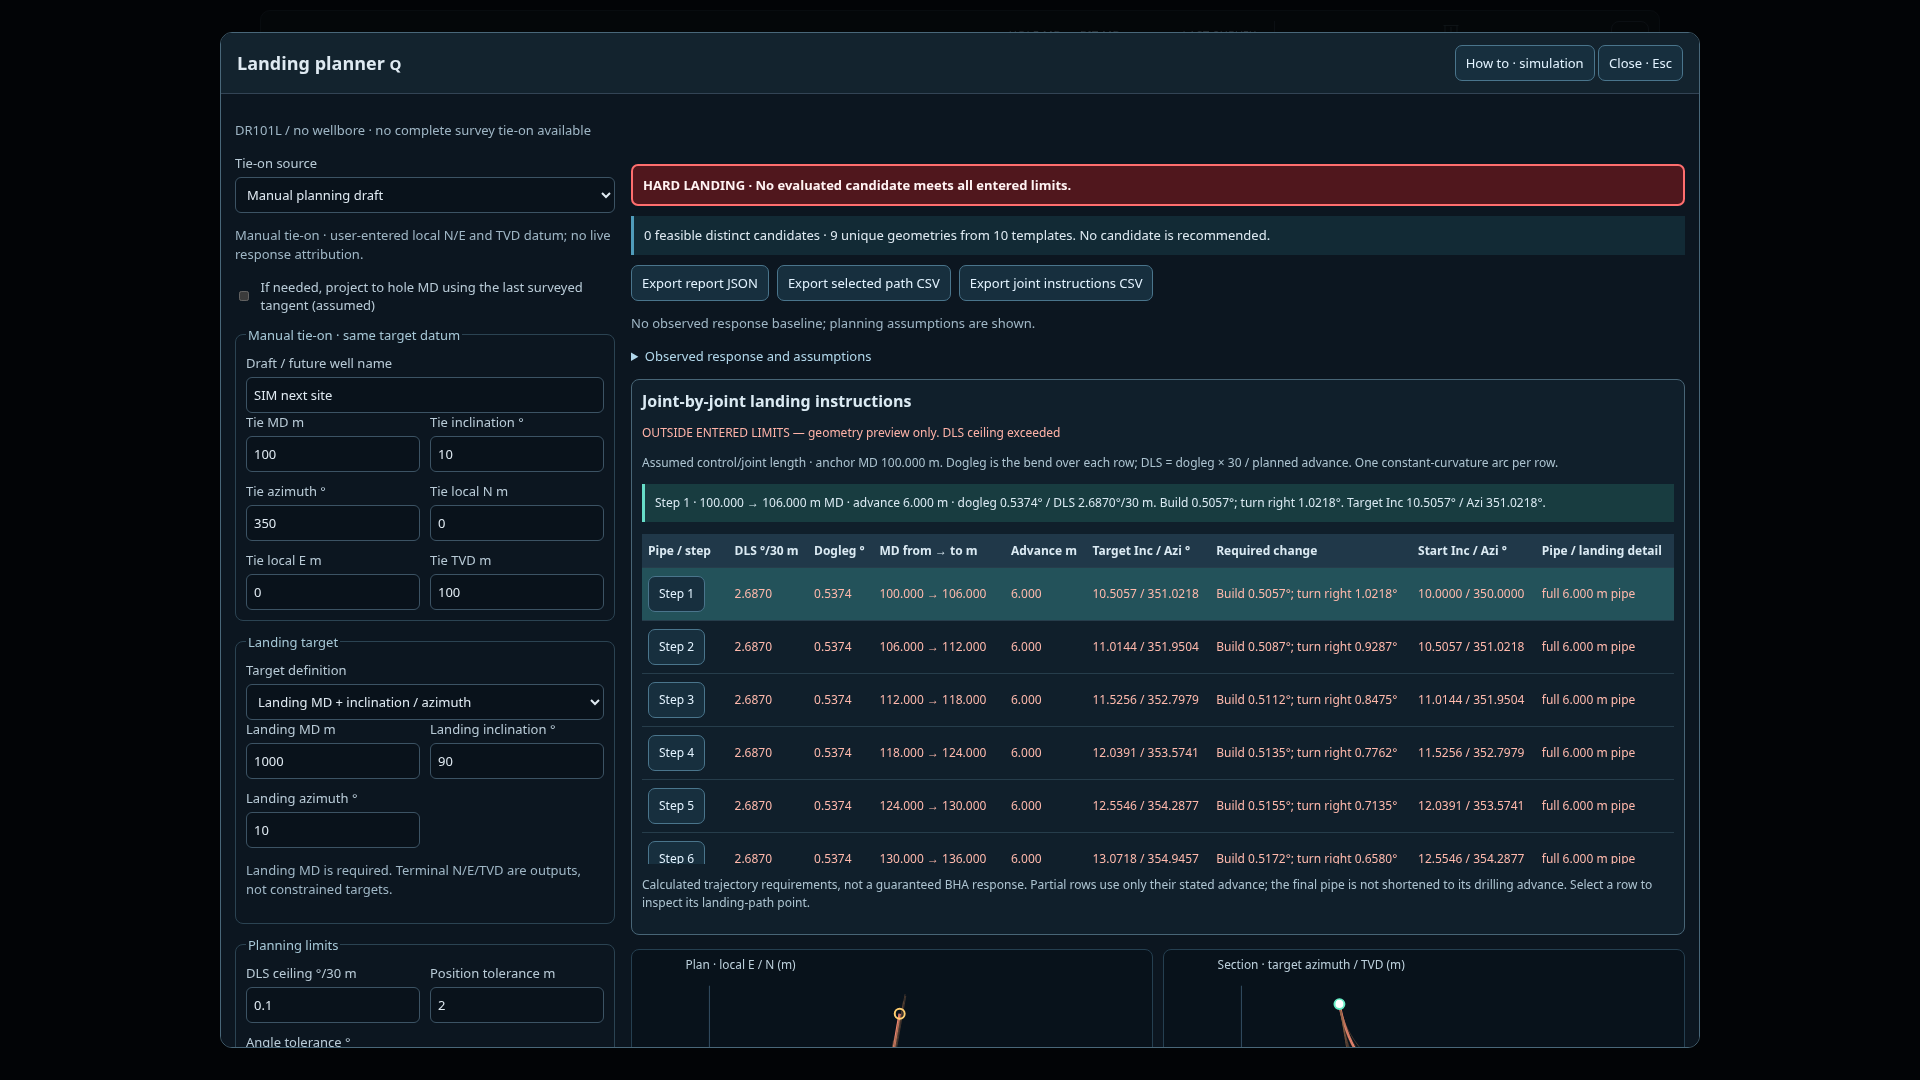
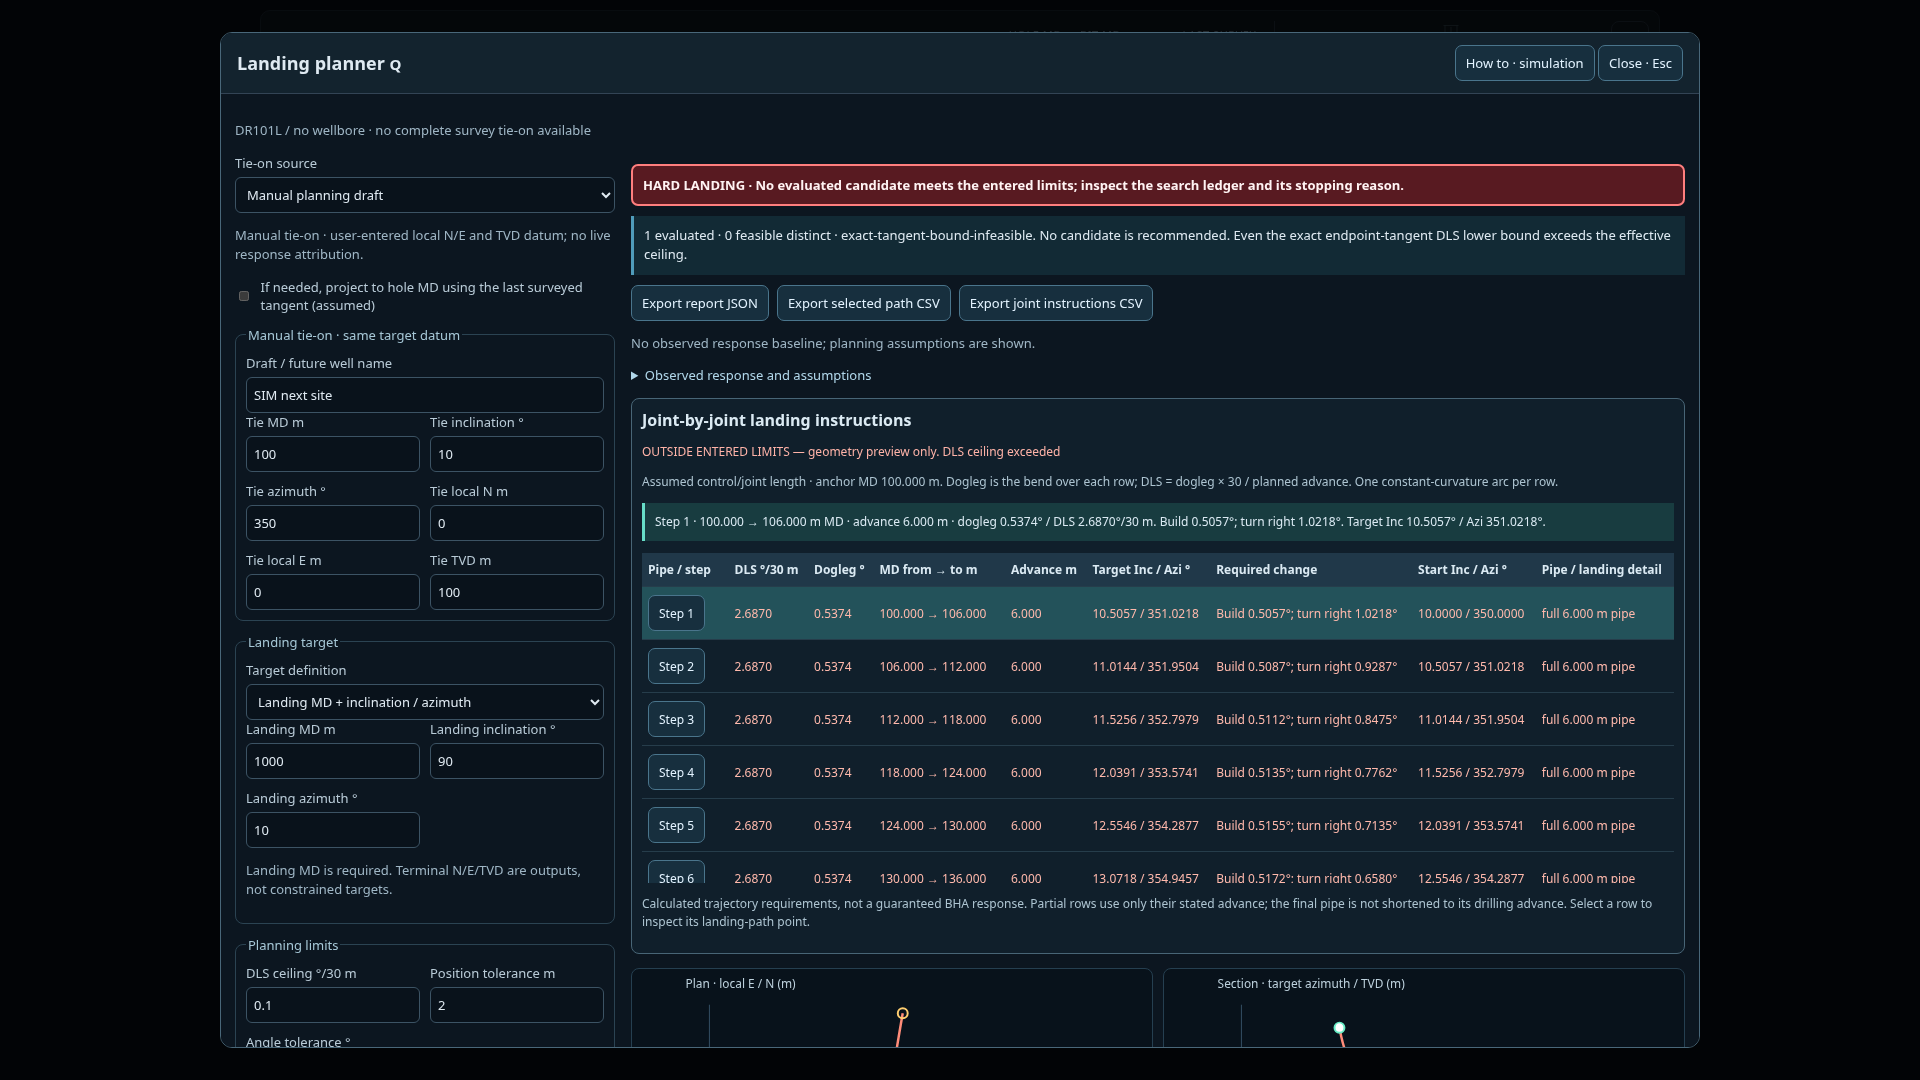
Search landing trajectories adaptively and expose every joint-resolved evaluation

diff --git a/drilling/opsnow.js b/drilling/opsnow.js
@@ -8,7 +8,7 @@ import {referenceScope,loadMeasuredReference,inventoryPosition,inventoryResetLab
 import {checkpointState,renderHardpoints,STORAGE_KEY} from './opsnow_hardpoints.mjs?v=hardpoint1118';
 import {uploadedReference} from './opsnow_measured_upload.mjs?v=hardpoint1118';
 import {reportedOperation,reportDepthIssue,drillingReferenceMd,renderOperationReport} from './opsnow_operation_report.mjs?v=eow1118';
-import {initLandingPlanner} from './opsnow_landing.mjs?v=landing-joints1';
+import {initLandingPlanner} from './opsnow_landing.mjs?v=landing-search2';
 import * as W from './opsnow_wire.js?v=re1115';
 import * as VW from './opsnow_views.js?v=re1115';
 import * as A from './opsnow_ac.js?v=re1115';

diff --git a/drilling-tests/LANDING-PLANNER.md b/drilling-tests/LANDING-PLANNER.md
@@ -39,7 +39,7 @@ Escape closes the popup and returns focus. Q in an input does not toggle it.
    cannot silently borrow an active bore's tally. Missing lengths are never filled
    with nominal values. Export the joint-instruction CSV for the selected path.
 
-   Compare ten scenarios, inspect the two plots and select a row. Required peak
+   Search landing solutions, inspect the two plots and select a row. Required peak
    DLS, build/turn curvature, landing MD/angles, position miss and DLS margin are
    displayed. Duplicate geometries and unsuccessful templates are identified.
    Only a feasible, distinct evaluated candidate can be suggested.
@@ -61,7 +61,7 @@ Escape closes the popup and returns focus. Q in an input does not toggle it.
 
 ## Red warning
 
-The popup pulses red at a slow 1.4-second cycle when no evaluated candidate meets
+The popup pulses red at a slow 1.4-second cycle when a completed search finds no evaluated candidate meeting
 the constraints, or when the best candidate requires at least 90% of the effective
 DLS ceiling. The effective ceiling is the lower of the planning ceiling and the
 explicitly selected design profile's declared component limit. The reason is
@@ -70,12 +70,49 @@ are input errors, not declarations that landing is impossible. An old warning is
 cleared when inputs/scope change. Failure of these templates does not prove that
 every conceivable trajectory is impossible.
 
+## Adaptive search and the complete evaluated-case record
+
+There is no ten-scenario quota. Initial shape seeds and 24 space-filling starts
+feed adaptive joint-tangent refinement. Smooth build/turn perturbations at four
+locations are refitted to the target on the actual joint grid. The next round
+refines the best distinct feasible/least-violating geometry. Improvement uses the
+exposed score, a 0.001 threshold, halved angular steps starting at 1.5°, and
+convergence at two stable refinement levels below 0.1° or the 0.025° resolution
+floor. An exact tangent-curvature or straight-line bound can stop earlier; a proof
+case is recorded rather than inventing alternatives. This is convergence within
+the explored model and resolution, never exhaustive enumeration of continuous
+physical possibilities or a guaranteed global optimum.
+
+Each compute pass has a visible time budget (default 1.2 seconds in Q, 3 seconds
+in the tutorial). A 1,024-evaluation batch safeguard also pauses a pass. **Search
+paused** is separate from convergence. **Continue search** retains every prior
+result and resumes its exact queue and refinement state; increasing the budget
+does not restart the search. Slow devices may need further passes. Unresolved
+model geometry or missing measured joints is not a claim of impossibility.
+
+The ledger includes **every actually evaluated candidate**, including rejected
+and duplicate cases, its generating parameters, peak DLS, target miss and decision
+reason. Paging/filtering changes only the display. **Inspect** reconstructs any
+case's original joint schedule and plots in a separate worker, including cases
+outside the retained comparison shortlist. Cases with no resolvable geometry show
+their rejection instead of fictitious joint instructions. **Replay every
+evaluation** steps through the whole ledger in evaluation order. Pause stops the
+replay. Retained full paths and reconstruction caches are bounded; compact recipes
+retain the rest. JSON exports include the complete ledger and replay inputs.
+
+The how-to retains a separate search record at **every drilling joint**. Review
+any earlier drilling-step search, inspect every alternative with that step's fixed
+drilled prefix and target, or export all searches and executed rows. The moving
+path review shows each actual case; progress counts come from the real planner.
+Inspection does not substitute a rejected path for the validated execution choice.
+Normal, early and deeper cases all use this same search and audit implementation.
+
 ## Geometry, response and limits
 
 The implementation reuses the game's `minCurve`, `atMD` and point validation from
 `bha-builder/shared/wp-autotrack-core.js`, and the existing BHA library reader.
-MD/angle mode evaluates ten timing/curvature shapes using short-arc tangent
-interpolation (plus a build-before-turn profile). The constant-rate case is
+MD/angle mode starts with timing/curvature shapes using short-arc tangent
+interpolation (plus a build-before-turn profile), then explores and refines them. The constant-rate case is
 checked against the analytical circular arc and minimum orientation DLS bound.
 
 Position mode uses cubic endpoint-tangent templates only as initial guesses.
@@ -89,7 +126,7 @@ field measurement or achievable steering accuracy. Total MD is exactly the enter
 landing MD when supplied. Dogleg and DLS are computed from each actual joint arc,
 not averaged from a high-level curve. Row MD/inc/azi reconstruct the landing.
 
-A same-scope prior continuation can replace the tenth seed. It is re-aligned and
+A same-scope prior continuation is an additional seed. It is re-aligned and
 revalidated against the latest actual tie-on and revised target, never assumed
 safe. This prevents a perfect execution losing its own valid remaining path at
 the final joints. A different scope cannot supply this continuation. All consumed
@@ -101,7 +138,7 @@ impossibility claim.
 The candidate score is peak DLS + 0.05×total dogleg + 0.0005×MD length, plus
 0.1×absolute difference from observed median DLS when at least three intervals
 exist. Lower is preferred among feasible distinct candidates. This is an exposed
-heuristic over the generated set, not a global optimiser or a motor controller.
+heuristic refined over the generated set, not a global optimum guarantee or a motor controller.
 
 Build, inclination-weighted turn and total DLS come from at most the latest 12
 suitable measured survey intervals in the selected run. Intervals over 90 m and
@@ -118,14 +155,15 @@ a cancellable worker; stale results are discarded across edits and scope changes
 
 ## Verification
 
-`npm test --prefix drilling-tests`: 85 passing tests, including 21 landing tests
+`npm test --prefix drilling-tests`: 89 passing tests, including 25 landing tests
 for analytic geometry, wrap-around, duplicate holds, target/MD constraints,
 infeasible DLS, sensitivity, scoped BHA intervals, recorded steering fits and
 warning thresholds. Browser evidence is under `landing-evidence/`.
 
 `PLAYWRIGHT_MODULE=playwright node drilling-tests/landing-browser.mjs` checks actual
 Ops/landing source at 1920×1080 and 390×844 with local SIM transport only: hidden
-entry, typing/focus, phone entry, ten paths, target modes, exports, stale-result
+entry, typing/focus, phone entry, adaptive search, budget pause/continuation, non-retained-case reconstruction,
+all-step tutorial history/export/replay, target modes, exports, stale-result
 protection, animated and isolated tutorial, hard case, red pulse/reduced motion,
 survey/depth adaptation, explicit unsurveyed projection, dirty edits and scope
 changes. It asserts no external requests or WITSML calls.
